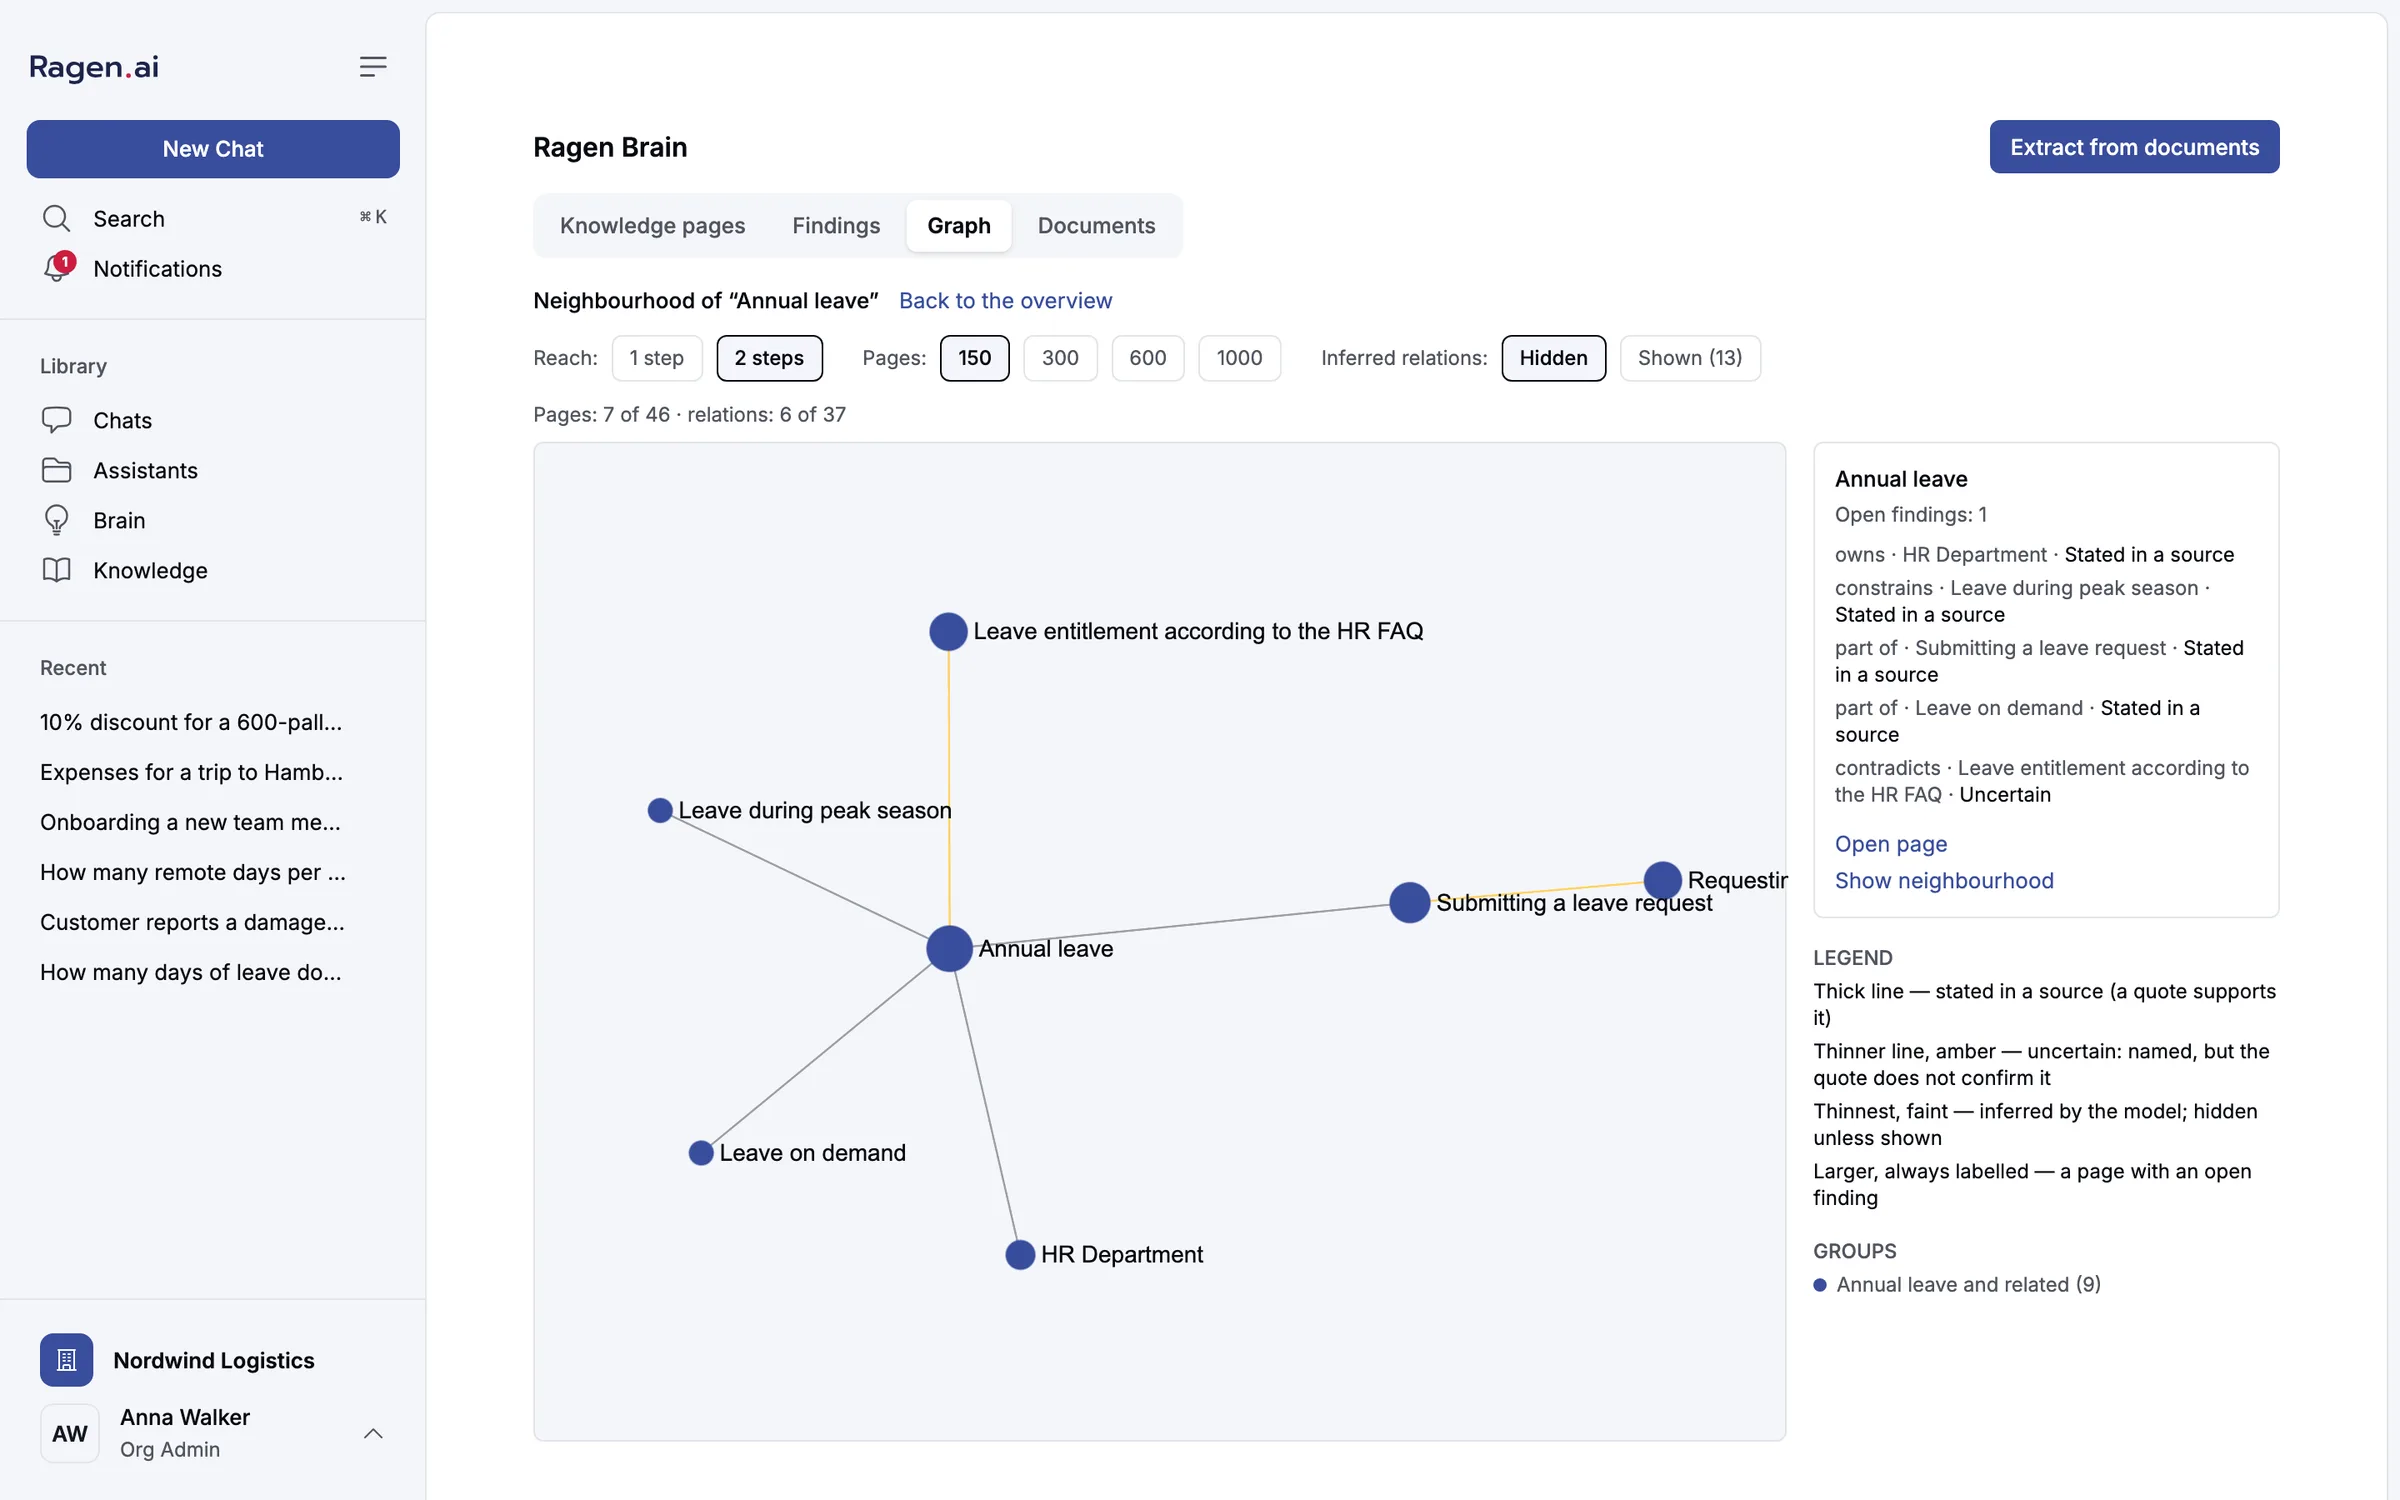
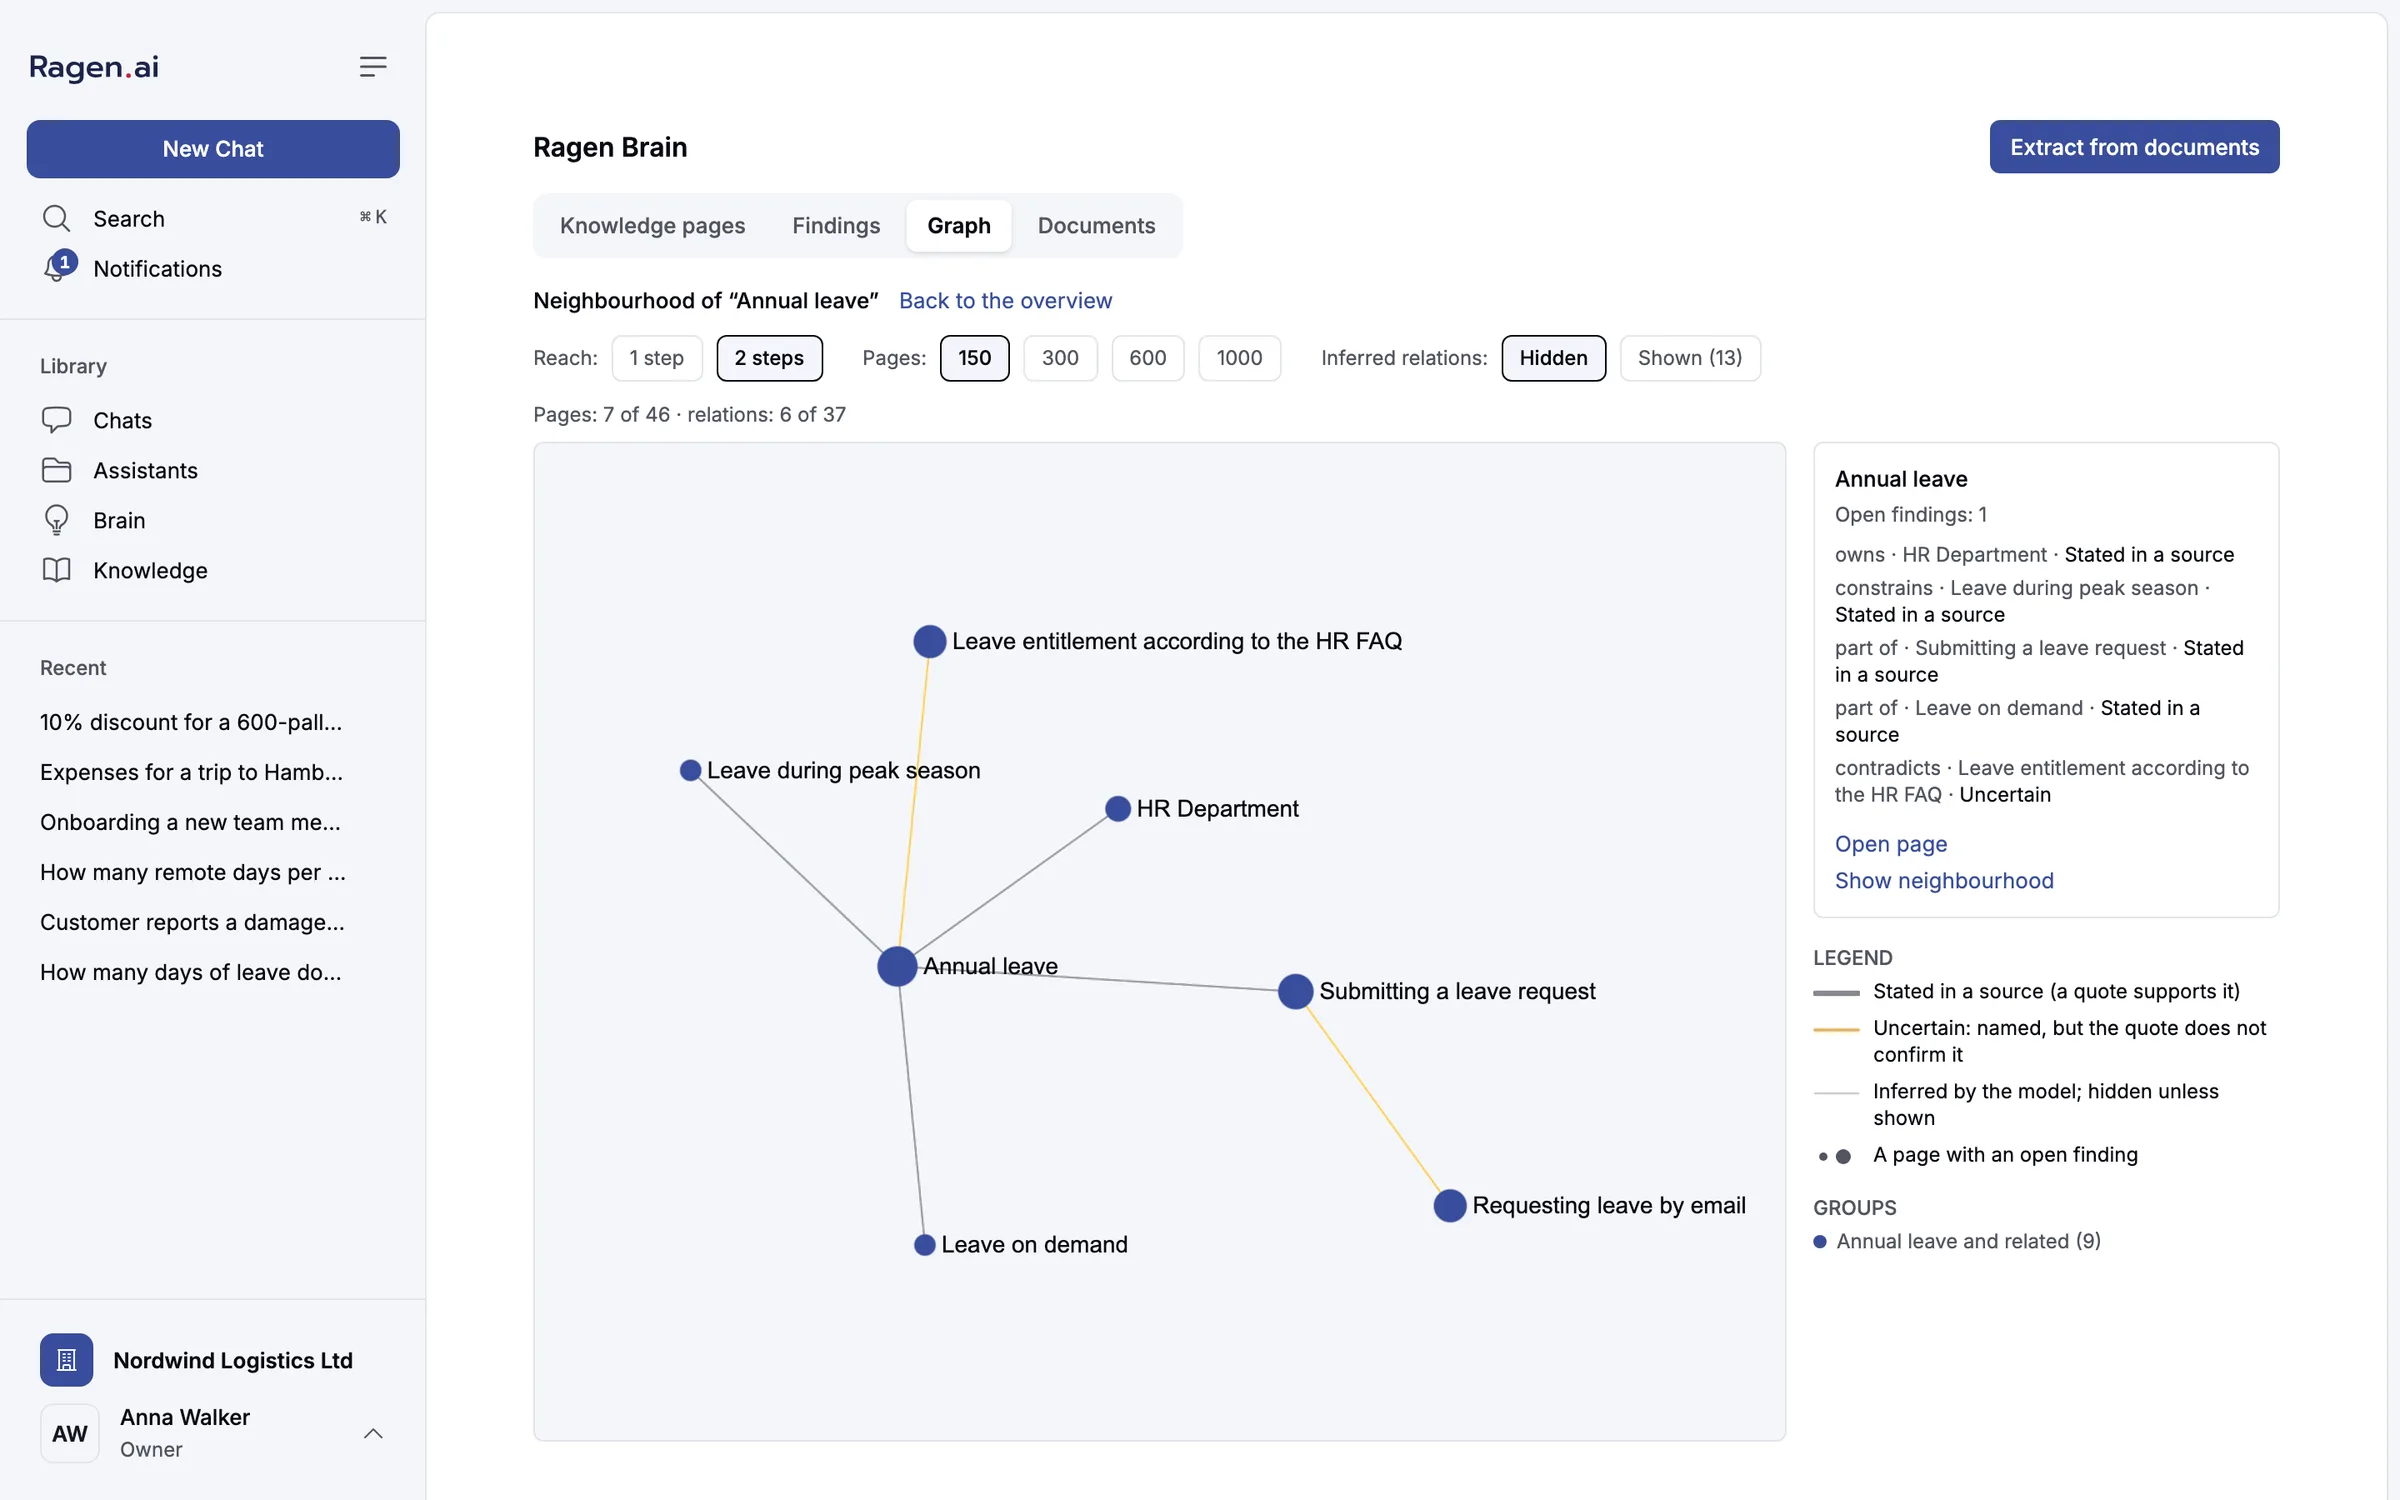
fix(brain): a readable neighbourhood, and a legend that shows its lines (#1356)
Graph:
- Up to ROOMY_GRAPH (15) pages, ForceAtlas2 runs with adjustSizes and a
  larger scalingRatio, so a neighbourhood no longer packs a page's label
  into the next node.
- Sigma fits the camera to nodes, not labels, and labels grow rightwards,
  so the rightmost page's name ran off the canvas ("Zgłaszani…"). Small
  views zoom out a little and shift right; the whole graph keeps its fit,
  since zoomed out it only got smaller.

Legend:
- Each relation kind is drawn as the line the canvas draws — widths and
  colours from one EDGE_STYLE table the canvas also reads — and a finding
  as a larger dot. The text keeps only the meaning, in all 15 locales.

The README's graph screenshot is retaken with both.

diff --git a/apps/web/src/app/[locale]/(panel)/brain/components/BrainGraphCanvas.tsx b/apps/web/src/app/[locale]/(panel)/brain/components/BrainGraphCanvas.tsx
@@ -49,8 +49,64 @@ export function communityColour(id: number): {
 /** Up to this many pages, every page is labelled. */
 const SMALL_GRAPH = 60;
 
+/** Up to this many pages, the layout spreads out and the camera leaves label room. */
+export const ROOMY_GRAPH = 15;
+
 /** Width carries the origin too, so it is never told by colour alone. */
 const EDGE_SIZE = { EXTRACTED: 1.6, AMBIGUOUS: 1, INFERRED: 0.6 } as const;
+
+/**
+ * How each kind of relation is drawn — the canvas and the legend's swatches
+ * both read this, so the legend cannot describe a line the graph no longer
+ * draws.
+ */
+const EDGE_STYLE = {
+  EXTRACTED: { token: '--muted-foreground', alpha: 0.7 },
+  AMBIGUOUS: { token: '--chart-3', alpha: 0.8 },
+  INFERRED: { token: '--muted-foreground', alpha: 0.3 },
+} as const;
+
+type EdgeOrigin = keyof typeof EDGE_SIZE;
+
+/**
+ * A short line drawn the way the graph draws `origin`. The widths are the
+ * canvas's, scaled up so a 0.6 line is still visible at legend size.
+ */
+function EdgeSwatch({ origin }: { origin: EdgeOrigin }) {
+  const { token, alpha } = EDGE_STYLE[origin];
+  return (
+    <svg
+      aria-hidden="true"
+      viewBox="0 0 28 10"
+      className="mt-1 h-2.5 w-7 shrink-0"
+    >
+      <line
+        x1="1"
+        y1="5"
+        x2="27"
+        y2="5"
+        stroke={`var(${token})`}
+        strokeOpacity={alpha}
+        strokeWidth={EDGE_SIZE[origin] * 2}
+        strokeLinecap="round"
+      />
+    </svg>
+  );
+}
+
+/** An ordinary page beside a larger one — the size a finding gives a page. Neutral grey: colour on the canvas means the community, and the swatch is about size. */
+function FindingSwatch() {
+  return (
+    <svg
+      aria-hidden="true"
+      viewBox="0 0 28 10"
+      className="mt-1 h-2.5 w-7 shrink-0"
+    >
+      <circle cx="6" cy="5" r="2.5" fill="var(--muted-foreground)" />
+      <circle cx="18" cy="5" r="4.5" fill="var(--muted-foreground)" />
+    </svg>
+  );
+}
 
 /**
  * The graph itself (spec D4), drawn with sigma on WebGL over graphology.
@@ -106,6 +162,10 @@ export function BrainGraphCanvas({ view }: { view: BrainGraphView }) {
         // size threshold that keeps a thousand labels apart would otherwise
         // leave a handful of unconnected pages as unnamed dots.
         const labelAll = view.nodes.length <= SMALL_GRAPH;
+        // A neighbourhood-sized view: few enough pages that spreading them out
+        // and leaving room for the right-hand labels costs nothing. Past this
+        // the whole graph needs the space, and zooming out only shrinks it.
+        const roomy = view.nodes.length <= ROOMY_GRAPH;
         const communities = Math.max(1, view.communities.length);
         view.nodes.forEach((node, i) => {
           // Start each community on its own arc, so the layout settles into
@@ -135,9 +195,22 @@ export function BrainGraphCanvas({ view }: { view: BrainGraphView }) {
           });
         }
         if (graph.order > 1) {
+          const inferred = fa2.default.inferSettings(graph);
           fa2.default.assign(graph, {
             iterations: graph.order > 600 ? 80 : 150,
-            settings: fa2.default.inferSettings(graph),
+            settings: {
+              ...inferred,
+              // Nodes repel by their drawn size, not as points, so two pages
+              // never sit on top of each other with their labels crossed.
+              adjustSizes: true,
+              // A neighbourhood is read label by label: give it room. The
+              // inferred ratio suits hundreds of nodes and packed a
+              // seven-page neighbourhood so tight that labels ran into the
+              // next node.
+              scalingRatio: roomy
+                ? Math.max(inferred.scalingRatio ?? 1, 12)
+                : inferred.scalingRatio,
+            },
           });
         }
 
@@ -173,6 +246,15 @@ export function BrainGraphCanvas({ view }: { view: BrainGraphView }) {
           setSelected(view.nodes.find((n) => n.id === node) ?? null);
         });
         renderer.on('clickStage', () => setSelected(null));
+        // Sigma fits the camera to the nodes, not to their labels, and a
+        // label is drawn to the right of its node — so the rightmost page's
+        // name ran off the canvas ("Zgłaszani…"). Zoom out a little and shift
+        // the view right by the same share, which leaves the extra room on
+        // the side the labels grow into. A larger graph keeps the tight fit:
+        // zoomed out, it only got smaller and its labels ran together.
+        if (roomy) {
+          renderer.getCamera().setState({ x: 0.62, y: 0.5, ratio: 1.32 });
+        }
         kill = () => renderer.kill();
       } catch {
         setFailed(true);
@@ -258,11 +340,28 @@ export function BrainGraphCanvas({ view }: { view: BrainGraphView }) {
           <h3 className="mb-1 text-xs font-medium uppercase text-muted-foreground">
             {t('legend-title')}
           </h3>
-          <ul className="space-y-1 text-xs">
-            <li>{t('legend-extracted')}</li>
-            <li>{t('legend-ambiguous')}</li>
-            <li>{t('legend-inferred')}</li>
-            <li>{t('legend-findings')}</li>
+          {/*
+            Each line is shown, not described: the swatch is drawn from the
+            same width and colour as the canvas, and the text says only what
+            the line means.
+          */}
+          <ul className="space-y-1.5 text-xs" data-testid="brain-graph-legend">
+            {(
+              [
+                ['EXTRACTED', 'legend-extracted'],
+                ['AMBIGUOUS', 'legend-ambiguous'],
+                ['INFERRED', 'legend-inferred'],
+              ] as const
+            ).map(([origin, key]) => (
+              <li key={origin} className="flex items-start gap-2">
+                <EdgeSwatch origin={origin} />
+                <span>{t(key)}</span>
+              </li>
+            ))}
+            <li className="flex items-start gap-2">
+              <FindingSwatch />
+              <span>{t('legend-findings')}</span>
+            </li>
           </ul>
         </div>
         {view.communities.some((c) => c.size > 1) && (
@@ -346,9 +445,9 @@ function tokenColours(el: HTMLElement) {
       return alpha === 1 ? rgb(token) : mixed(token, alpha);
     },
     edge: {
-      EXTRACTED: rgb('--muted-foreground', 0.7),
-      AMBIGUOUS: rgb('--chart-3', 0.8),
-      INFERRED: rgb('--muted-foreground', 0.3),
+      EXTRACTED: rgb(EDGE_STYLE.EXTRACTED.token, EDGE_STYLE.EXTRACTED.alpha),
+      AMBIGUOUS: rgb(EDGE_STYLE.AMBIGUOUS.token, EDGE_STYLE.AMBIGUOUS.alpha),
+      INFERRED: rgb(EDGE_STYLE.INFERRED.token, EDGE_STYLE.INFERRED.alpha),
     },
     dim: rgb('--border'),
     label: rgb('--foreground'),

diff --git a/apps/web/src/app/[locale]/(panel)/brain/__tests__/graph-canvas.test.tsx b/apps/web/src/app/[locale]/(panel)/brain/__tests__/graph-canvas.test.tsx
@@ -14,13 +14,21 @@ const sigma = vi.hoisted(() => ({
   instances: [] as {
     graph: unknown;
     handlers: Record<string, (e: unknown) => void>;
+    cameraStates: Record<string, number>[];
   }[],
 }));
 vi.mock('sigma', () => ({
   default: class {
     handlers: Record<string, (e: unknown) => void> = {};
+    cameraStates: Record<string, number>[] = [];
     constructor(public graph: unknown) {
       sigma.instances.push(this as never);
+    }
+    getCamera() {
+      return {
+        setState: (state: Record<string, number>) =>
+          this.cameraStates.push(state),
+      };
     }
     on(event: string, fn: (e: unknown) => void) {
       this.handlers[event] = fn;
@@ -35,7 +43,8 @@ vi.mock('@/i18n/routing', () => ({
   ),
 }));
 
-const { BrainGraphCanvas } = await import('../components/BrainGraphCanvas');
+const { BrainGraphCanvas, ROOMY_GRAPH } =
+  await import('../components/BrainGraphCanvas');
 
 const A = '00000000-0000-4000-8000-000000000001';
 const B = '00000000-0000-4000-8000-000000000002';
@@ -182,5 +191,74 @@ describe('communityColour', () => {
     for (let id = 0; id < 20; id += 1) {
       expect(communityColour(id).token).not.toBe('--chart-4');
     }
+  });
+});
+
+describe('BrainGraphCanvas framing', () => {
+  const renderView = (v: typeof view) =>
+    render(
+      <NextIntlClientProvider locale="en" messages={messages}>
+        <BrainGraphCanvas view={v} />
+      </NextIntlClientProvider>,
+    );
+
+  // Sigma fits the camera to nodes, not labels, and labels grow rightwards:
+  // the rightmost page's name ran off the canvas ("Zgłaszani…").
+  it('leaves room for right-hand labels in a neighbourhood-sized view', async () => {
+    renderView(view);
+    await waitFor(() => expect(sigma.instances).toHaveLength(1));
+    const [state] = sigma.instances[0]!.cameraStates;
+    expect(state).toBeDefined();
+    expect(state!.ratio).toBeGreaterThan(1);
+    expect(state!.x).toBeGreaterThan(0.5);
+  });
+
+  // Zoomed out, the whole graph only got smaller and its labels ran together.
+  it('keeps the tight fit for a larger graph', async () => {
+    const nodes = Array.from({ length: ROOMY_GRAPH + 1 }, (_, i) => ({
+      ...view.nodes[1]!,
+      id: `00000000-0000-4000-8000-${String(i).padStart(12, '0')}`,
+      title: `Strona ${i}`,
+    }));
+    renderView({
+      ...view,
+      nodes,
+      edges: [],
+      shown: { nodes: nodes.length, edges: 0 },
+      total: { nodes: nodes.length, edges: 0 },
+    });
+    await waitFor(() => expect(sigma.instances).toHaveLength(1));
+    expect(sigma.instances[0]!.cameraStates).toHaveLength(0);
+  });
+});
+
+describe('BrainGraphCanvas legend', () => {
+  // The legend said "thick line", "thinner, amber" in words only. Each entry
+  // now shows the line, drawn with the widths and colours the canvas uses.
+  it('shows each kind of relation as the line the graph draws', async () => {
+    render(
+      <NextIntlClientProvider locale="en" messages={messages}>
+        <BrainGraphCanvas view={view} />
+      </NextIntlClientProvider>,
+    );
+    const legend = await screen.findByTestId('brain-graph-legend');
+    const items = legend.querySelectorAll('li');
+    expect(items).toHaveLength(4);
+    items.forEach((li) => expect(li.querySelector('svg')).not.toBeNull());
+
+    const width = (i: number) =>
+      Number(items[i]!.querySelector('line')!.getAttribute('stroke-width'));
+    // Stated > uncertain > inferred, as on the canvas.
+    expect(width(0)).toBeGreaterThan(width(1));
+    expect(width(1)).toBeGreaterThan(width(2));
+    // Amber marks the uncertain line.
+    expect(items[1]!.querySelector('line')!.getAttribute('stroke')).toBe(
+      'var(--chart-3)',
+    );
+    // The words say only what the line means.
+    expect(items[0]).toHaveTextContent(
+      messages.brain.graph['legend-extracted'],
+    );
+    expect(items[0]).not.toHaveTextContent(/thick/i);
   });
 });

diff --git a/docs/changelog-notes.md b/docs/changelog-notes.md
@@ -89,6 +89,13 @@ archive is the blog.
 
 ### Thread: Ragen Brain for a showcase
 
+- `[brief]` **A readable neighbourhood in Brain's graph.** Opening a page's
+  neighbourhood no longer cuts off the names of pages at the right edge, or
+  lets one page's name run into the next page: small views spread out and
+  leave room for their labels.
+- `[brief]` **The graph's legend shows its lines.** Each entry now draws the
+  line it describes — the thick confirmed one, the amber uncertain one, the
+  faint inferred one — so the words only have to say what it means.
 - `[brief]` **Ragen Brain can be shown read-only.** Two new per-organization
   switches in the admin panel's Features page:
   - **Ragen Brain: curate** (on by default): turn it off to freeze Brain
